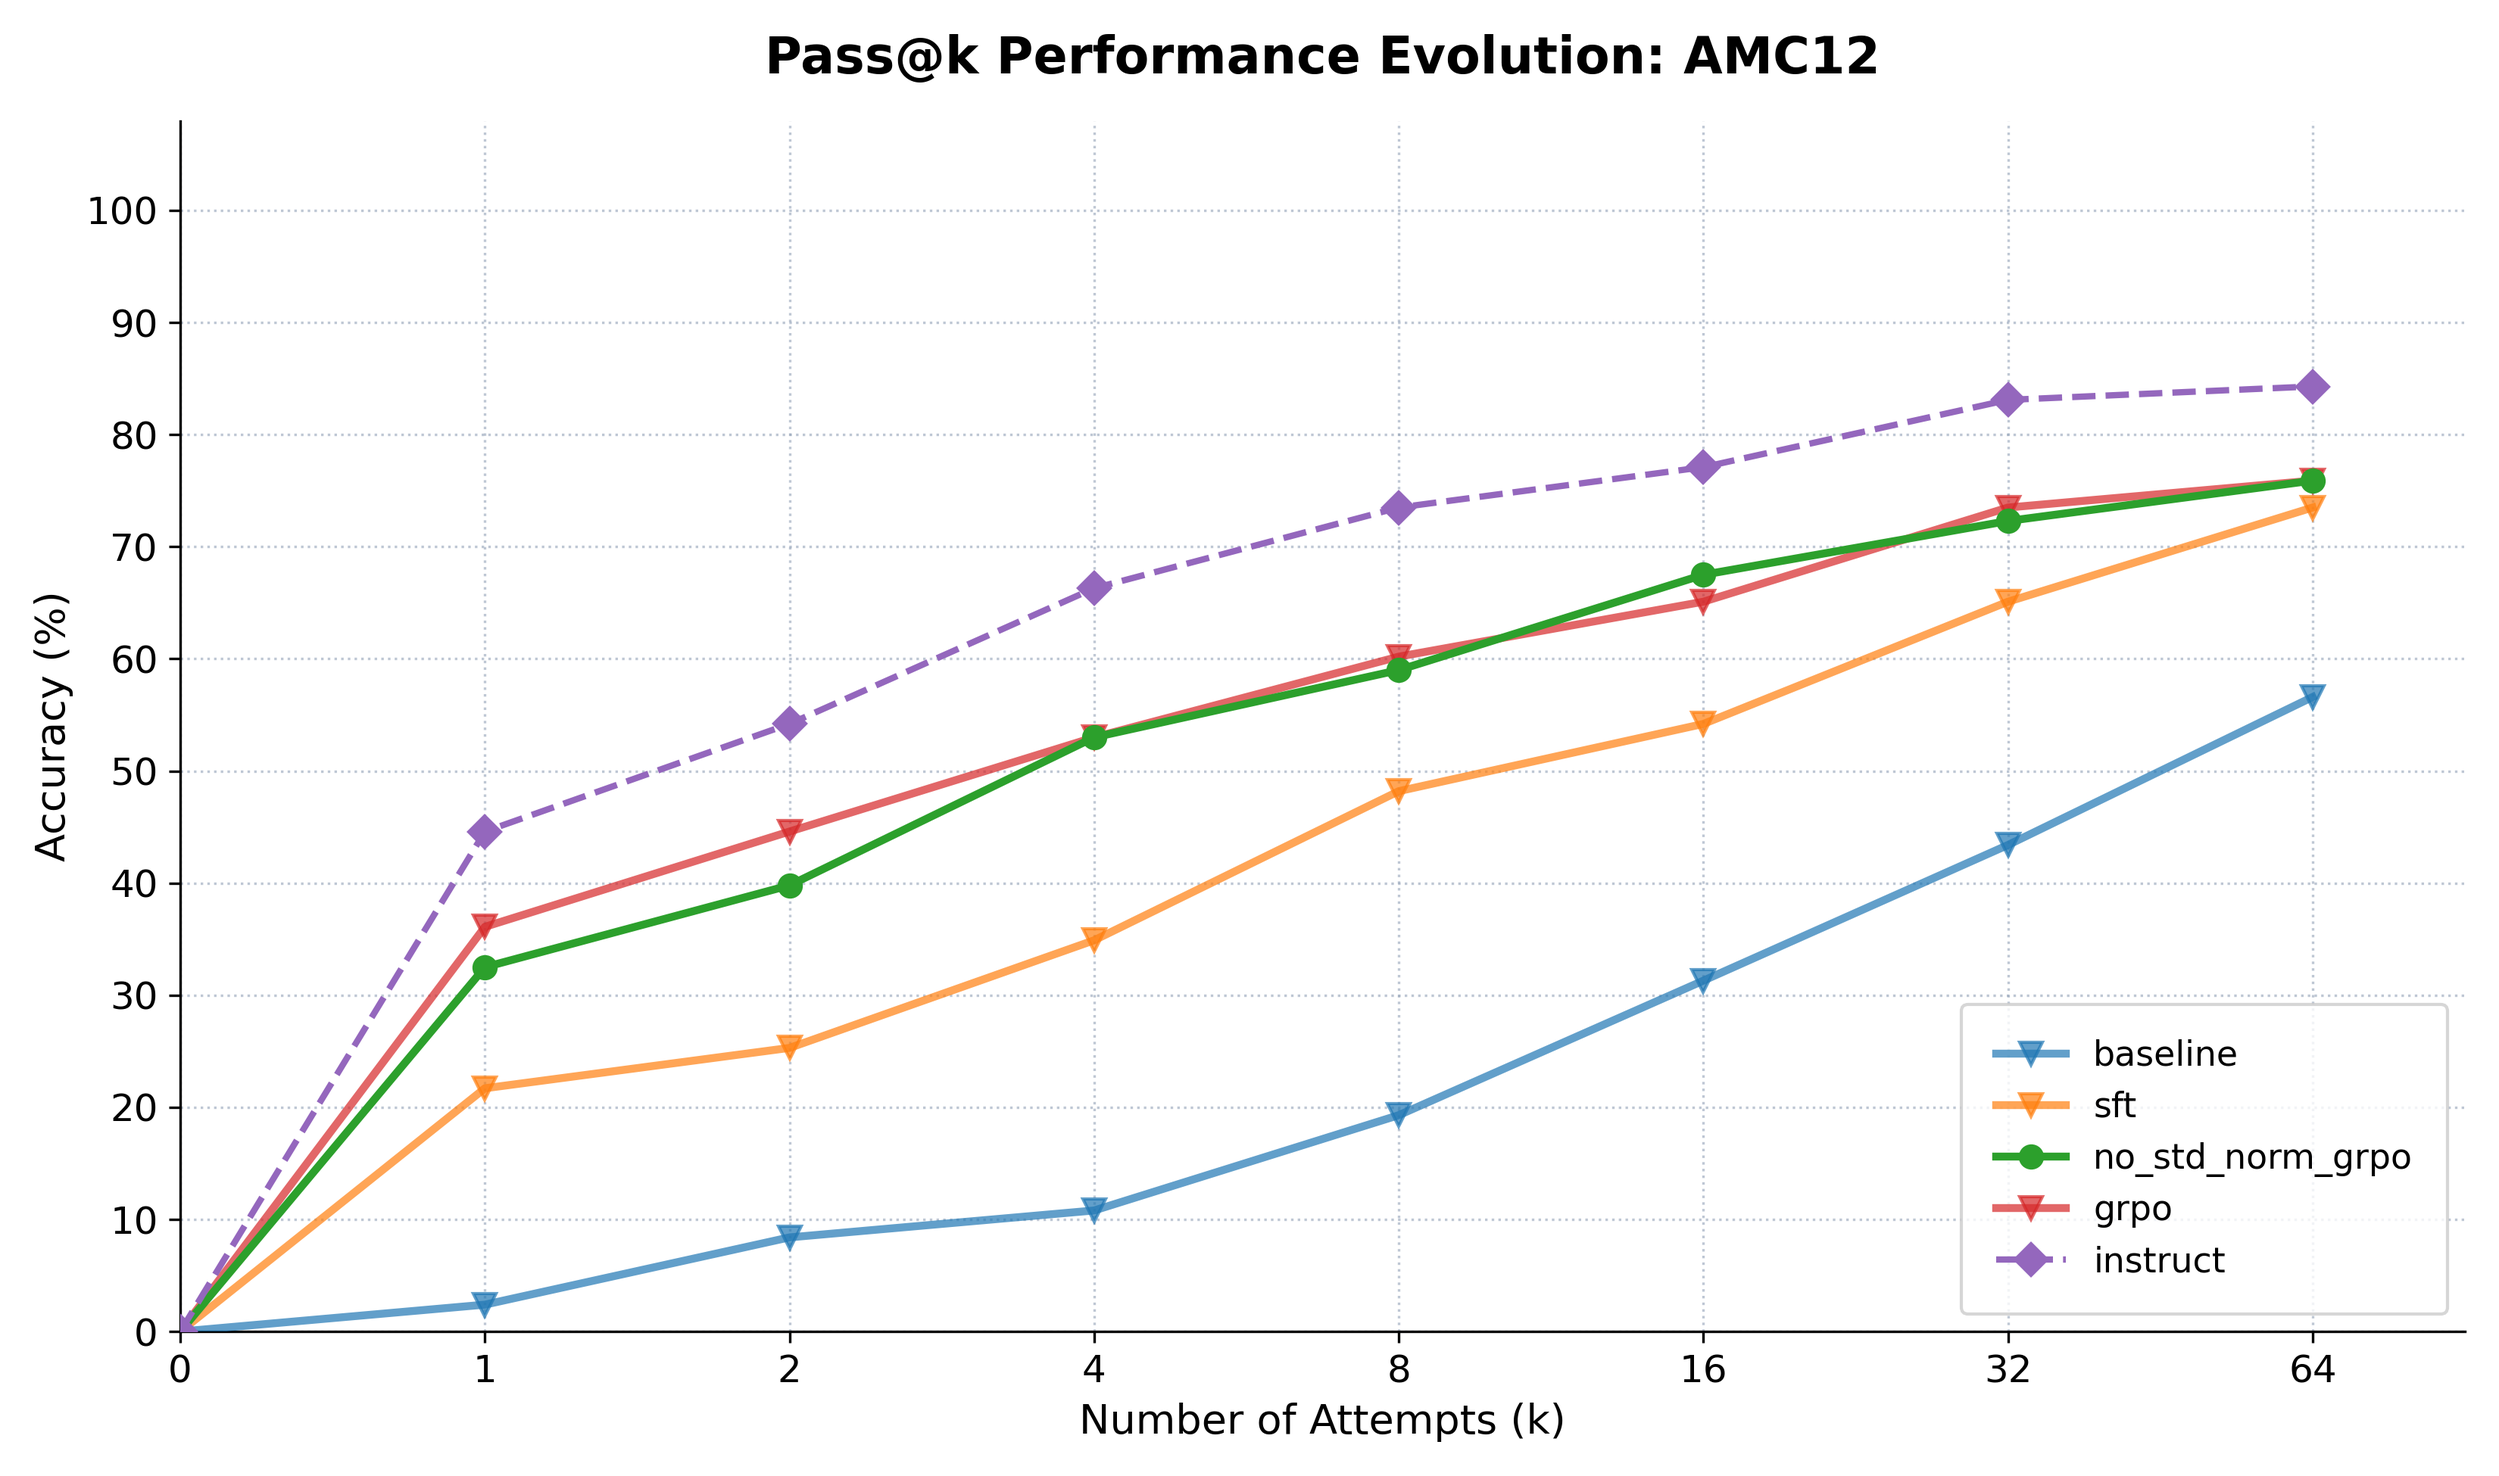
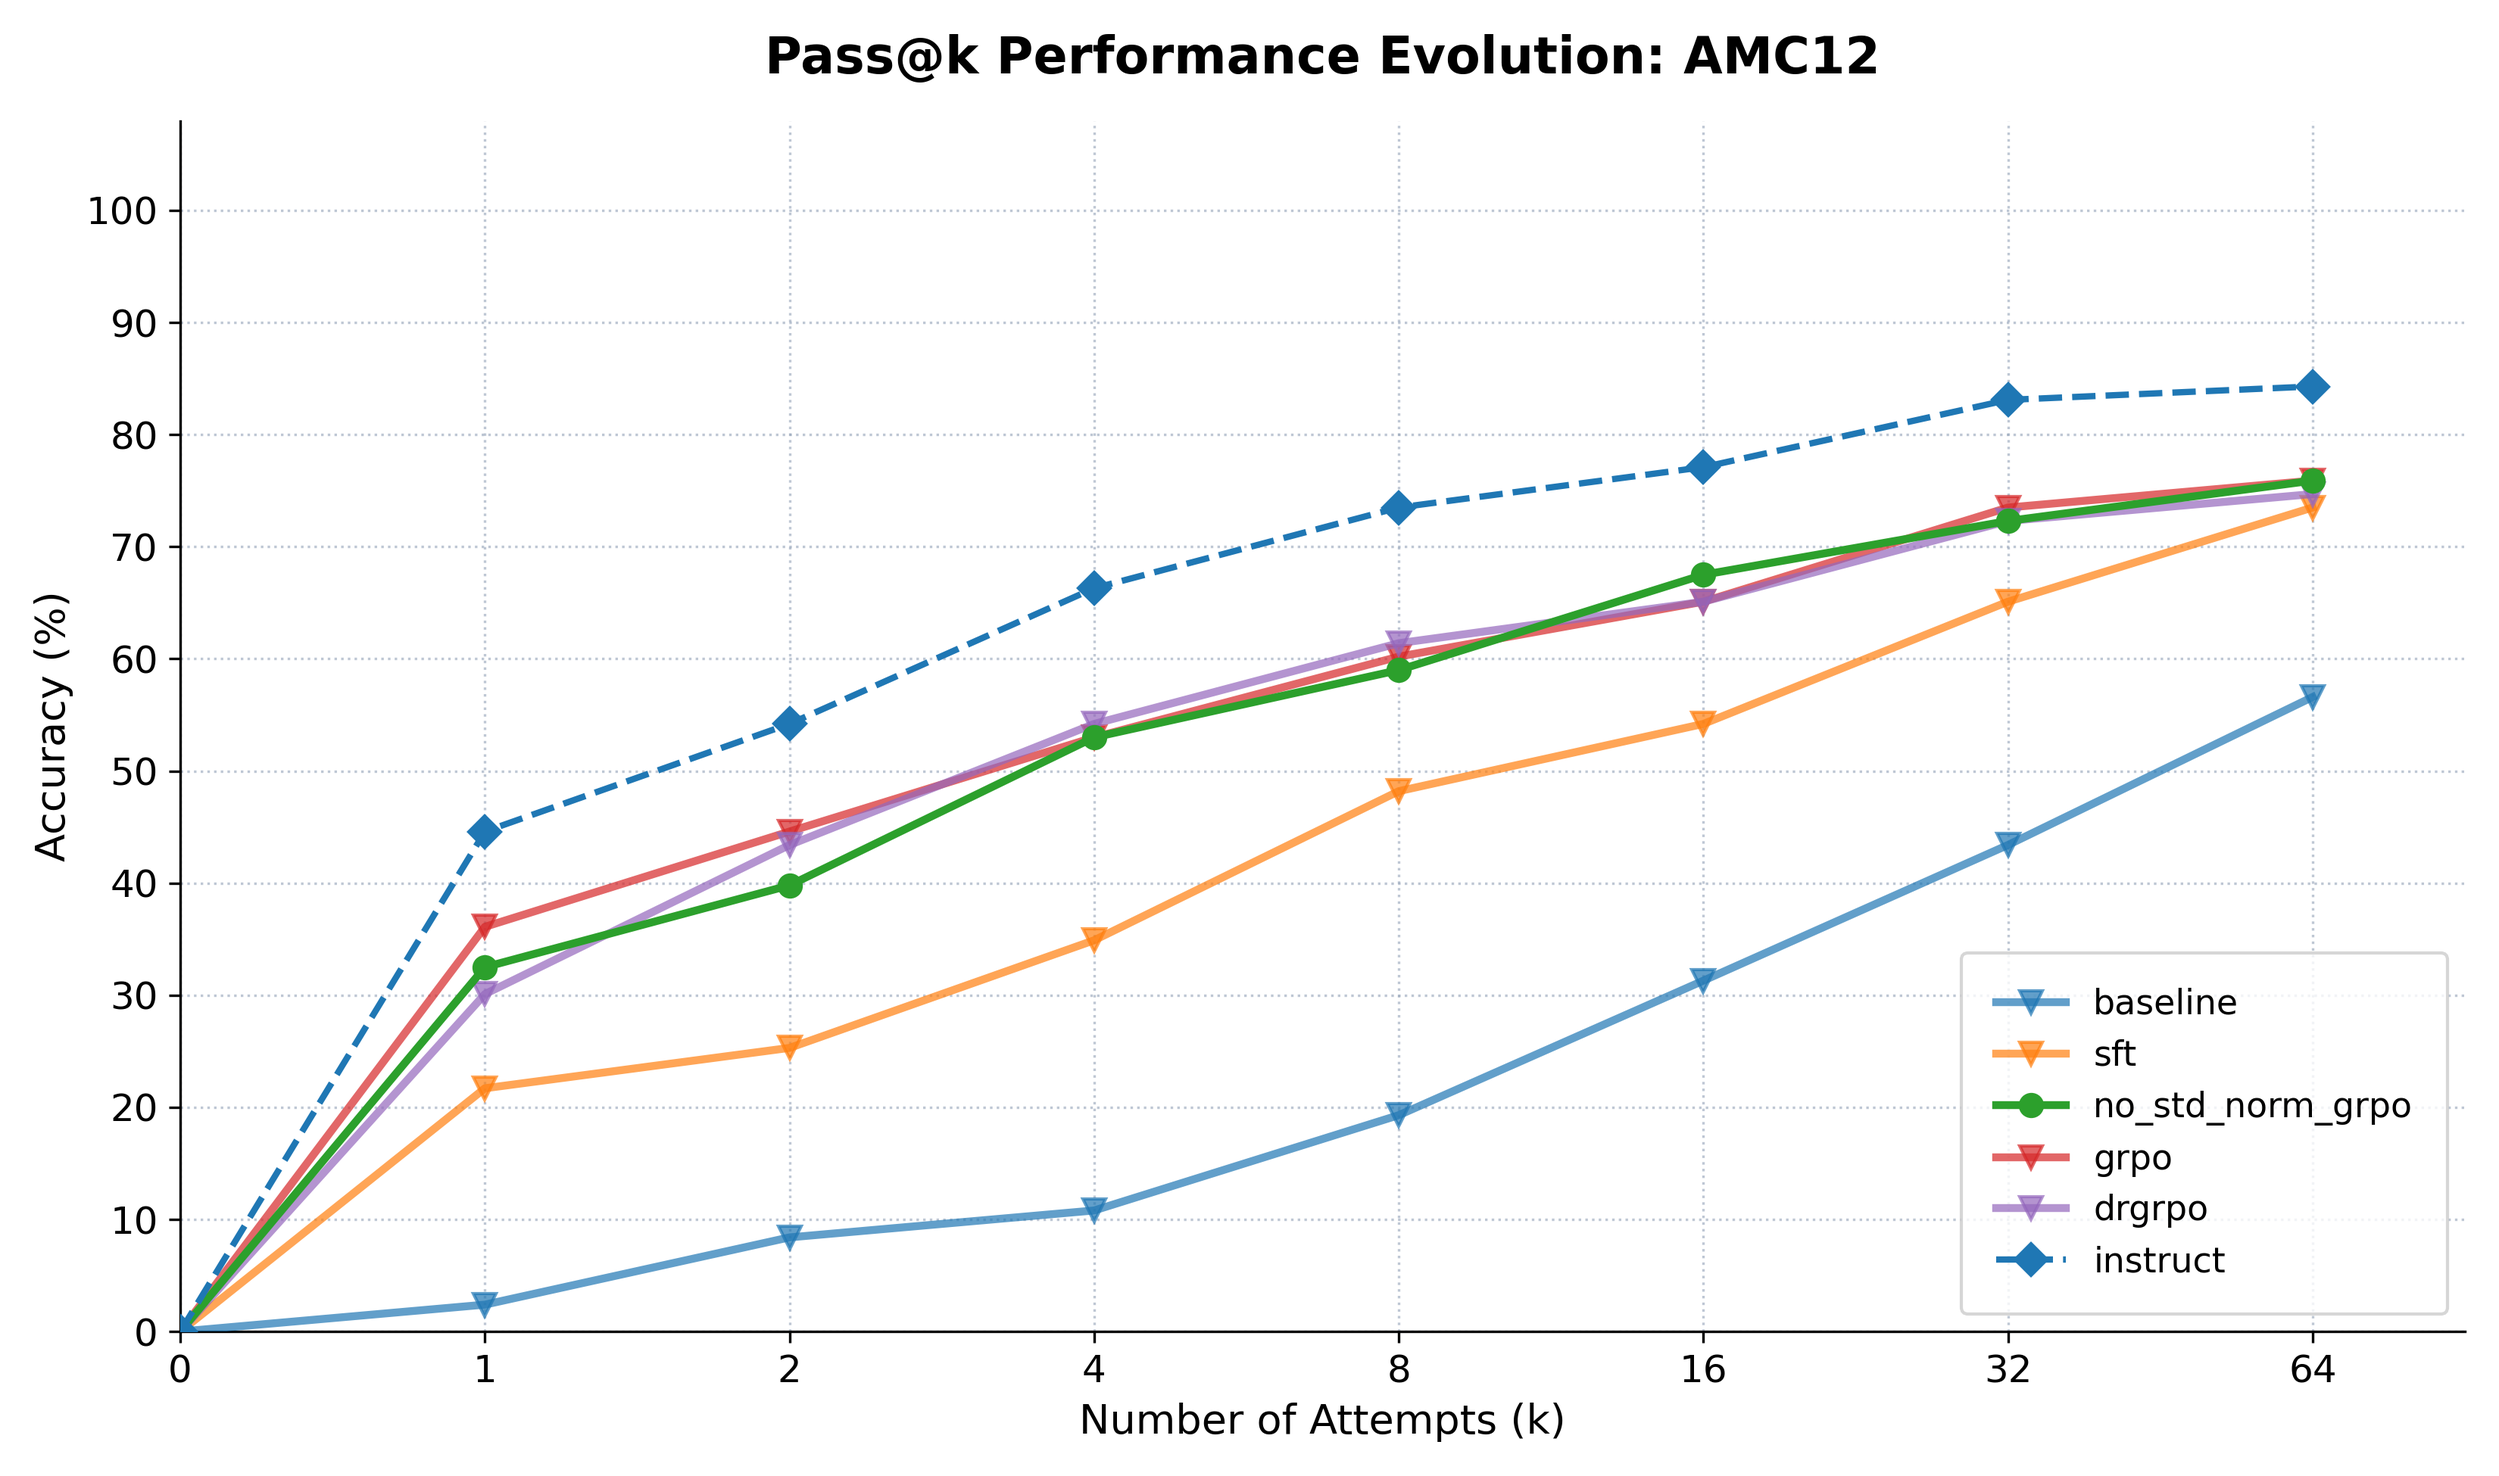
update readme for a5

diff --git a/assignment5-alignment/cs336_alignment/plot_passk.py b/assignment5-alignment/cs336_alignment/plot_passk.py
@@ -414,10 +414,20 @@ if __name__ == "__main__":
                                                     0.300, 0.300, 0.300, 0.300, 0.300, 0.300, 0.300, 0.300)}
 
 
+    drgrpo_amc_pass64_result   = {'drgrpo':     (0.301, 0.434, 0.458, 0.542, 0.578, 0.602, 0.602, 0.614,
+                                                    0.614, 0.614, 0.614, 0.627, 0.627, 0.639, 0.651, 0.651,
+                                                    0.651, 0.651, 0.651, 0.651, 0.675, 0.675, 0.675, 0.675,
+                                                    0.675, 0.675, 0.687, 0.699, 0.699, 0.723, 0.723, 0.723,
+                                                    0.723, 0.723, 0.723, 0.723, 0.723, 0.723, 0.735, 0.735,
+                                                    0.735, 0.735, 0.735, 0.735, 0.735, 0.735, 0.735, 0.735,
+                                                    0.747, 0.747, 0.747, 0.747, 0.747, 0.747, 0.747, 0.747,
+                                                    0.747, 0.747, 0.747, 0.747, 0.747, 0.747, 0.747, 0.747)}
+
+
 
     math_full_pass8_results  = [baseline_full_pass8_result, sft_full_pass8_result, no_std_norm_grpo_full_pass8_result, grpo_full_pass8_result, instruct_math_pass8_result]
     math500_pass64_results   = [baseline_500_pass64_result, sft_500_pass64_result, no_std_norm_grpo_500_pass64_result, grpo_500_pass64_result, instruct_500_pass64_result]
-    amc12_pass64_results     = [baseline_AMC12_pass64_result, sft_AMC12_pass64_result, no_std_norm_grpo_AMC12_pass64_result, grpo_AMC12_pass64_result, instruct_AMC_12_pass64_result]
+    amc12_pass64_results     = [baseline_AMC12_pass64_result, sft_AMC12_pass64_result, no_std_norm_grpo_AMC12_pass64_result, grpo_AMC12_pass64_result, drgrpo_amc_pass64_result, instruct_AMC_12_pass64_result]
     aime_2025_pass64_results = [baseline_aime25_pass64_result, sft_aime25_pass64_result, no_std_norm_grpo_aime25_pass64_result, grpo_aime25_pass64_result, instruct_aime25_pass64_result]
     aime_2024_pass64_results = [baseline_aime24_pass64_result, sft_aime24_pass64_result, no_std_norm_grpo_aime24_pass64_result, grpo_aime24_pass64_result, instruct_aime24_pass64_result]
 

diff --git a/assignment5-alignment/README_zh-CN.md b/assignment5-alignment/README_zh-CN.md
@@ -101,15 +101,15 @@
 
 
 
-|    Dataset    | Metric  | 🔵Base | 🟠 SFT |   🔴GRPO   | 🟢no-std-normGRPO | Dr.GRPO |   Inst.    |                $\nabla$Gap                 |
+|    Dataset    | Metric  | 🔵Base | 🟠 SFT |   🔴GRPO   | 🟢no-std-normGRPO | Dr.GRPO |   Inst.    |                $\nabla$Gap                 |
 | :-----------: | :-----: | :---: | :---: | :-------: | :--------------: | :-----: | :--------: | :----------------------------------------: |
-| **GSM8K$^*$** | Pass@1  | 20.9% | 45.5% |   79.0%   |    **79.6%**     |         | **85.14%** |     <font color="red">**-5.5%**</font>     |
+| **GSM8K$^*$** | Pass@1  | 20.9% | 45.5% |   79.0%   |    **79.6%**     | 79.15%  | **85.14%** |     <font color="red">**-5.5%**</font>     |
 | **MATH-500**  | Pass@1  | 14.4% | 66.8% |   80.8%   |    **83.4%**     |         | **92.00%** |  <span style="color:red">**-8.6%**</span>  |
 | **MATH-Test** | Pass@1  | 12.3% | 44.1% |   59.8%   |    **61.2%**     |         | **74.88%** | <span style="color:red">**-13.68%**</span> |
-|   **AMC12**   | Pass@1  | 2.4%  | 21.7% | **36.1%** |      32.5%       |         | **44.6%**  | <span style="color:red">**-12.1%**</span>  |
+|   **AMC12**   | Pass@1  | 2.4%  | 21.7% | **36.1%** |      32.5%       |  30.1%  | **44.6%**  | <span style="color:red">**-12.1%**</span>  |
 |               |         |       |       |           |                  |         |            |                                            |
 | **MATH-500**  | Pass@64 | 91.6% | 98.2% | **99.4%** |      98.8%       |         | **99.0%**  |  <span style="color:red">**-0.2%**</span>  |
-|   **AMC12**   | Pass@64 | 56.6% | 73.5% |   75.9%   |    **75.9%**     |         | **84.3%**  |  <span style="color:red">**-8.4%**</span>  |
+|   **AMC12**   | Pass@64 | 56.6% | 73.5% |   75.9%   |    **75.9%**     |  74.7%  | **84.3%**  |  <span style="color:red">**-8.4%**</span>  |
 | **AIME 2024** | Pass@64 | 13.3% | 26.7% |   30.0%   |    **40.0%**     |         | **46.67%** | <span style="color:red">**-6.67%**</span>  |
 | **AIME 2025** | Pass@64 | 3.3%  | 23.3% |   30.0%   |    **30.0%**     |         | **40.00%** | <span style="color:red">**-10.0%**</span>  |
 
